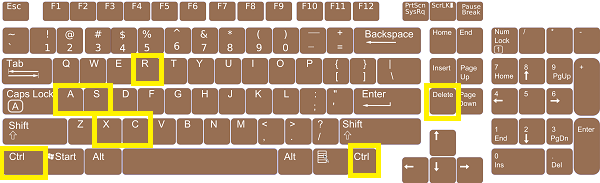
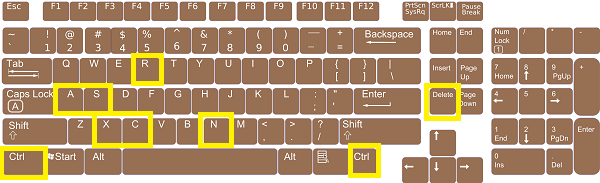
PSGDriveSync Help Files Updated
PSGDriveSync Help Files Updated on 21st March 2023

Changed region(s): [[0.33, 0.6011, 0.39, 0.8197]]

diff --git a/psgdrivesync/help/databasediagnostics.html b/psgdrivesync/help/databasediagnostics.html
@@ -1,0 +1,115 @@
+<html>
+    <head>
+        <link rel="stylesheet" href="../assets/css/help.css">
+    </head>
+    <body>
+        <p>
+            Database Connection Diagnostics basically checks if the application is able to properly access the database or not. This option can be run from the loading window and the main application window 
+            as well. The process involves running a bunch of generic database commands on the application database and then generating the result of those commands on a log file which the end user can then 
+            open to check the results of the diagnostics. The following are the steps needed to be performed in order to run database diagnostics
+        <p/>
+
+        <table>
+            <tr>
+                <td>
+                    <p>1</p>
+                </td>
+                <td>
+                    <p>
+                       On the loading page, you can click on the "System Diagnostics" tab first.
+                    </p>
+                </td>
+                <td>
+                    <img src="../assets/img/diagnostics/databasediagnostics1.png">
+                </td>
+            </tr>
+
+            <tr>
+                <td>
+                    <p>2</p>
+                </td>
+                <td>
+                    <p>
+                       Click on the option for "Diagnose Database Connection".
+                    </p>
+                </td>
+                <td>
+                    <img src="../assets/img/diagnostics/databasediagnostics2.png">
+                </td>
+            </tr>
+
+            <tr>
+                <td>
+                    <p>3</p>
+                </td>
+                <td>
+                    <p>
+                       You can reach the same option from the application main window as well by clicking on the "Help" tab then "System Diagnostics" and "Diagnose Database Connection".
+                    </p>
+                </td>
+                <td>
+                    <img src="../assets/img/diagnostics/databasediagnostics7.png">
+                </td>
+            </tr>
+
+            <tr>
+                <td>
+                    <p>4</p>
+                </td>
+                <td>
+                    <p>
+                       On the next window saying "Select Database File to Diagnose", Select the application's database file "Database.db" on your computer and then click on "Open".
+                    </p>
+                </td>
+                <td>
+                    <img src="../assets/img/diagnostics/databasediagnostics3.png">
+                </td>
+            </tr>
+
+            <tr>
+                <td>
+                    <p>5</p>
+                </td>
+                <td>
+                    <p>
+                        Click "Ok" on the results window and go to the application directory where the application executable "PSGDriveSync.exe" file exists. In that directory or folder you should see 
+                        a file by the name "DatabaseDiagnostics.log". Please go ahead and open that file in your favorite text editor program.
+                    </p>
+                </td>
+                <td>
+                    <img src="../assets/img/diagnostics/databasediagnostics4.png"><br/><br/><br/>
+                    <img src="../assets/img/diagnostics/databasediagnostics5.png">
+                </td>
+            </tr>
+
+            <tr>
+                <td>
+                    <p>6</p>
+                </td>
+                <td>
+                    <p>
+                        The content of the log file should show a bunch of Database commands along with the results associated with running those commands. All the commands should be saying "PASS" to indicate that there 
+                        is no problem connecting to the database however if any one of them fail and give out an error message then you could try the following to resolve the problem
+                        <ul>
+                            <li>
+                                Make sure that PSGDriveSync is not being blocked by an Anti Virus software application. 
+                            </li>
+                            <br/>
+                            <br/>
+                            <li>
+                                Database file's read/write permissions are set correctly where most default system applications are able to access and read the file.<br/><br/>
+                                More information can be found on<br/>
+                                <a href = "https://www.dell.com/support/kbdoc/en-in/000137238/understanding-file-and-folder-permissions-in-windows"> Dell's Website</a> and 
+                                <a href ="https://learn.microsoft.com/en-us/windows/security/identity-protection/access-control/access-control">Microsoft's Website</a>
+                            </li>
+                        </ul>
+                    </p>
+                </td>
+                <td>
+                    <img src="../assets/img/diagnostics/databasediagnostics6.png">
+                </td>
+            </tr>
+
+        </table>
+    </body>
+</html>

diff --git a/psgdrivesync/help/internetdiagnostics.html b/psgdrivesync/help/internetdiagnostics.html
@@ -1,0 +1,85 @@
+<html>
+    <head>
+        <link rel="stylesheet" href="../assets/css/help.css">
+    </head>
+    <body>
+        <p>
+            Internet Connection Diagnostics checks if the application is able to properly access the internet or not. This option can be run from the loading window and the main application window 
+            as well. The process involves connecting to www.google.com and verifying if the site is accessible by the application. The following are the steps needed to be performed in order to run
+             internet diagnostics
+        <p/>
+
+        <table>
+            <tr>
+                <td>
+                    <p>1</p>
+                </td>
+                <td>
+                    <p>
+                       On the loading page, you can click on the "System Diagnostics" tab first.
+                    </p>
+                </td>
+                <td>
+                    <img src="../assets/img/diagnostics/databasediagnostics1.png">
+                </td>
+            </tr>
+
+            <tr>
+                <td>
+                    <p>2</p>
+                </td>
+                <td>
+                    <p>
+                       Click on the option for "Diagnose Internet Connection".
+                    </p>
+                </td>
+                <td>
+                    <img src="../assets/img/diagnostics/internetdiagnostics1.png">
+                </td>
+            </tr>
+
+            <tr>
+                <td>
+                    <p>3</p>
+                </td>
+                <td>
+                    <p>
+                       You can reach the same option from the application main window as well by clicking on the "Help" tab then "System Diagnostics" and "Diagnose Internet Connection".
+                    </p>
+                </td>
+                <td>
+                    <img src="../assets/img/diagnostics/internetdiagnostics2.png">
+                </td>
+            </tr>
+
+            <tr>
+                <td>
+                    <p>4</p>
+                </td>
+                <td>
+                    <p>
+                       The Results window will then let you know if the application was able to connect to the internet successfully by accessing www.google.com. If it did not, for some 
+                       reason, then you could try the following to resolve the problem
+                       <ul>
+                        <li>
+                           Make sure that your computer is connected to internet either wirelessly or via wired connection.<br/><br/>
+                           More information can be found on<br/>
+                           <a href = "https://www.bleepingcomputer.com/news/microsoft/best-windows-10-commands-to-diagnose-your-internet-connection/"> bleepingcomputer.com </a> and 
+                           <a href = "https://support.microsoft.com/en-us/windows/fix-network-connection-issues-in-windows-166a28c4-14c1-bdb1-473c-09c1571455d8#Category=Windows_10">Microsoft's Website</a>
+                        </li>
+                        <br/>
+                        <br/>
+                        <li>
+                            Make sure that PSGDriveSync is not being blocked by an Anti Virus software application or a Firewall. 
+                        </li>
+                    </ul>
+                    </p>
+                </td>
+                <td>
+                    <img src="../assets/img/diagnostics/internetdiagnostics3.png">
+                </td>
+            </tr>
+ 
+        </table>
+    </body>
+</html>

diff --git a/psgdrivesync/help/diagnostics.html b/psgdrivesync/help/diagnostics.html
@@ -1,0 +1,49 @@
+<html>
+    <head>
+        <link rel="stylesheet" href="../assets/css/help.css">
+    </head>
+    <body>
+        <table>
+            <tr style = "width: 100%; height:100%">
+                <td style = "width:50% ; height:100%">
+                    <img src = "../assets/img/diagnostics/diagnostics1.png" width="100%" height = "auto">
+                    <br/>
+                    <br/>
+                    <img src = "../assets/img/diagnostics/diagnostics2.png" width="100%" height = "auto">
+                </td>
+                <td style = "width:50% ; height:100%">
+                    <p>
+                        <p>PSGDriveSync application is dependent on two main features without which the application will not work. Those features are namely Database and Internet Connection. Database is needed to 
+                        store license information, drive information, file information, master key information and among many other things while internet connection is needed to download, manage and verify application 
+                        license and to connect to google drive servers through which files and folders on end user's google drive are accessed.<br/><br/>
+                        This is the reason why the option to diagnose these two important features are given out in the application at: 
+                        </p>
+                        
+                        <ul>
+                            <li>The Loading Window<br/><br/>
+                                This is the window that you first see when you run the PSGDriveSync application. The tab for "System Diagnostics" is given out on the top of the window as soon in the screenshot. You can 
+                                click on it and that will give you further two diagnostics options
+                                <br/> 
+                                <br/>
+                                <ul>
+                                    <li>Diagnose Database Connection</li><br/>
+                                    <li>Diagnose Internet Connection</li>
+                                </ul>
+                            </li><br/><br/>
+                            <li>The Application Window<br/><br/>
+                                This is the main application window that shows up after the loading window which contains all the application functionality. The tab for "System Diagnostics" is given out under the 
+                                "Help" tab. You need to click on it to further access the following diagnostics options
+                                <br/>
+                                <br/>
+                                <ul>
+                                    <li>Diagnose Database Connection</li><br/>
+                                    <li>Diagnose Internet Connection</li>
+                                </ul>
+                            </li><br/>
+                        </ul>
+                    </p>
+                </td>
+            </tr>
+        </table>
+    </body>
+</html>

diff --git a/psgdrivesync/help/index.html b/psgdrivesync/help/index.html
@@ -185,6 +185,12 @@
                             <li><button id = "EnableInheritance" onclick="LoadSection(this.id)">Setting Filter As Inheritable In A Filtered File</button></li>
                         </ul>
                     </li>
+                    <li><button id="Diagnostics" onclick="LoadPage(this.id)">Diagnostics</button>
+                        <ul id="DiagnosticsOptions" style = "display: none;">
+                            <li><button id = "DatabaseDiagnostics" onclick="LoadSection(this.id)">Diagnose Database Connection</button></li>
+                            <li><button id = "InternetDiagnostics" onclick="LoadSection(this.id)">Diagnose Internet Connection</button></li>
+                        </ul>
+                    </li>
                 </ul> 
             </td>
             <td id = "book" loadedPage = "">

diff --git a/psgdrivesync/help/keyboardshortcuts.html b/psgdrivesync/help/keyboardshortcuts.html
@@ -16,7 +16,10 @@
                                 Ctrl + S  - allows users to Save data items whenever possible.
                             </li>
                             <li>
-                                Ctrl + A - allows users to Add data items whenever possible. 
+                                Ctrl + N - allows users to Add New data item(s) whenever possible. 
+                            </li>
+                            <li>
+                                Ctrl + A - allows users to Select All data items whenever possible. 
                             </li>
                             <li>
                                 Ctrl + C - allows users to Copy data items from list of data items.

diff --git a/psgdrivesync/help/addfilter.html b/psgdrivesync/help/addfilter.html
@@ -5,7 +5,7 @@
     <body>
         <p>
             Adding a filter requires its type, property, operator and value to setup along with a unique name. Once a filter gets saved then its name cannot be changed
-            however its type, property, operator and value can always be modified. The followings are the steps needed to be performed in order to add a filter in the application.
+            however its type, property, operator and value can always be modified. The following are the steps needed to be performed in order to add a filter in the application.
         <p/>
 
         <table>

diff --git a/psgdrivesync/help/filters.html b/psgdrivesync/help/filters.html
@@ -6,7 +6,7 @@
         <table>
             <tr style = "width: 100%; height:100%">
                 <td style = "width:50% ; height:100%">
-                    <img src = "../assets/img/filters/filters.png" width="auto" height = "auto">
+                    <img src = "../assets/img/filters/filters.png" width="100%" height = "auto">
                 </td>
                 <td style = "width:50% ; height:100%">
                     <p>
